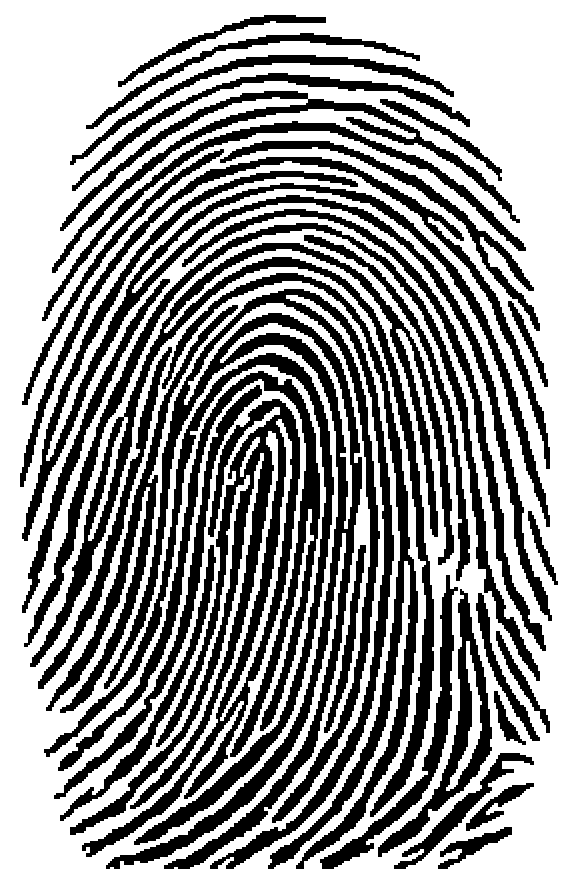
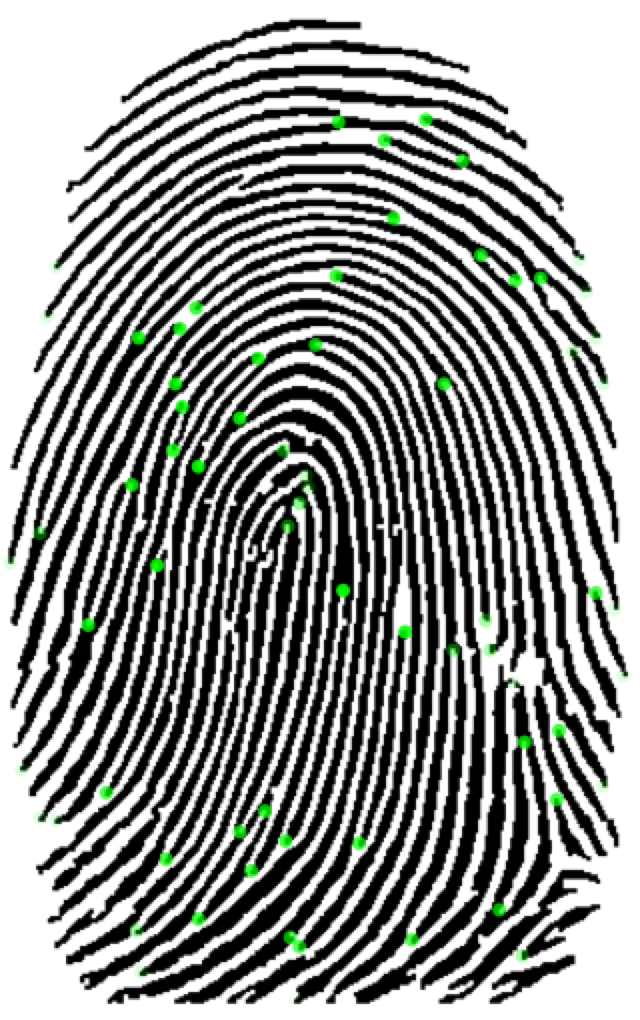
Added minutia reporting

diff --git a/demo.py b/demo.py
@@ -5,37 +5,67 @@ from fpview import (DirectionMap, LowFlowMap, HighCurvatureMap, QualityMap)
 
 import numpy as np
 import matplotlib.pyplot as plt
+import matplotlib.patches as ptch
+
+from PIL import Image
+from mpl_toolkits.axes_grid.anchored_artists import AnchoredDrawingArea
+
 
 # Set the location of the test data
 from os import sys, path
 test_dir = path.dirname(path.abspath(__file__)) + '/fpview/tests/data/'
 
 # Create a figure
-fig = plt.figure()
-ax = plt.gca()
-ax.set_frame_on(False)
-ax.set_axis_off()
+fig, ax = plt.subplots(1,2)
+# ax = plt.gca()
+for axes in ax:
+    axes.set_frame_on(False)
+    axes.set_axis_off()
+
+
 plt.hold(True)
 
 # Show Direction Map
 dm = DirectionMap(test_dir+'test.dm', fg = [0,0,0,1], bg = [1,1,1,1])
 dm.create()
-dm.plot(ax=ax)
+dm.plot(ax=ax[1])
 
 # Highlight 'Low-Flow' regions as red
 lfm = LowFlowMap(test_dir+'test.lfm', fg = [1,0,0,1])
 lfm.create()
-lfm.plot(ax=ax, alpha=.5)
+lfm.plot(ax=ax[1], alpha=.5)
 
 # Highlight 'High-Curvature' regions as blue
 hcm = HighCurvatureMap(test_dir+'test.hcm', fg = [0,0,1,1])
 hcm.create()
-hcm.plot(ax=ax, alpha=.5)
+hcm.plot(ax=ax[1], alpha=.5)
 
 # Highlight the quality as green - the brighter, the higher
 qm = QualityMap(test_dir+'test.qm', fg = [0,1,0,1])
 qm.create()
-qm.plot(ax=ax, alpha=.3)
+qm.plot(ax=ax[1], alpha=.3)
+
+# plt.hold(False)
+
+# Show processed fingerprint:
+processed_image = bytearray(open(test_dir+'test.brw', 'rb').read())
+dim = (len(dm.raw_data)*8, len(dm.raw_data[0])*8)
+# print dim[0]*dim[1], len(processed_image)
+processed_image = np.reshape(processed_image, dim)
+ax[0].imshow(processed_image, cmap='gray')
+
+# Show minutia:
+# minutia_color = (0,1,0,.8)
+minutia_list = np.loadtxt(test_dir+'test.xyt')
+for minutia in minutia_list:
+    quality = minutia[3] / 100.
+    minutia_color = (0, 1, 0, quality )
+    # minutia_color = (1 - quality, quality, 0, .8)
+    crcl = ptch.Circle((minutia[0], minutia[1]), radius = 3, axes = ax[0], edgecolor='none', facecolor = minutia_color)
+    ax[0].add_patch(crcl)
+
+    #arc = ptch.Arc((minutia[0], minutia[1]), angle = minutia[2], width = 0, height = 5, edgecolor=minutia_color)
+    #ax[0].add_patch(arc)
 
 # Show the plot
 plt.show()
